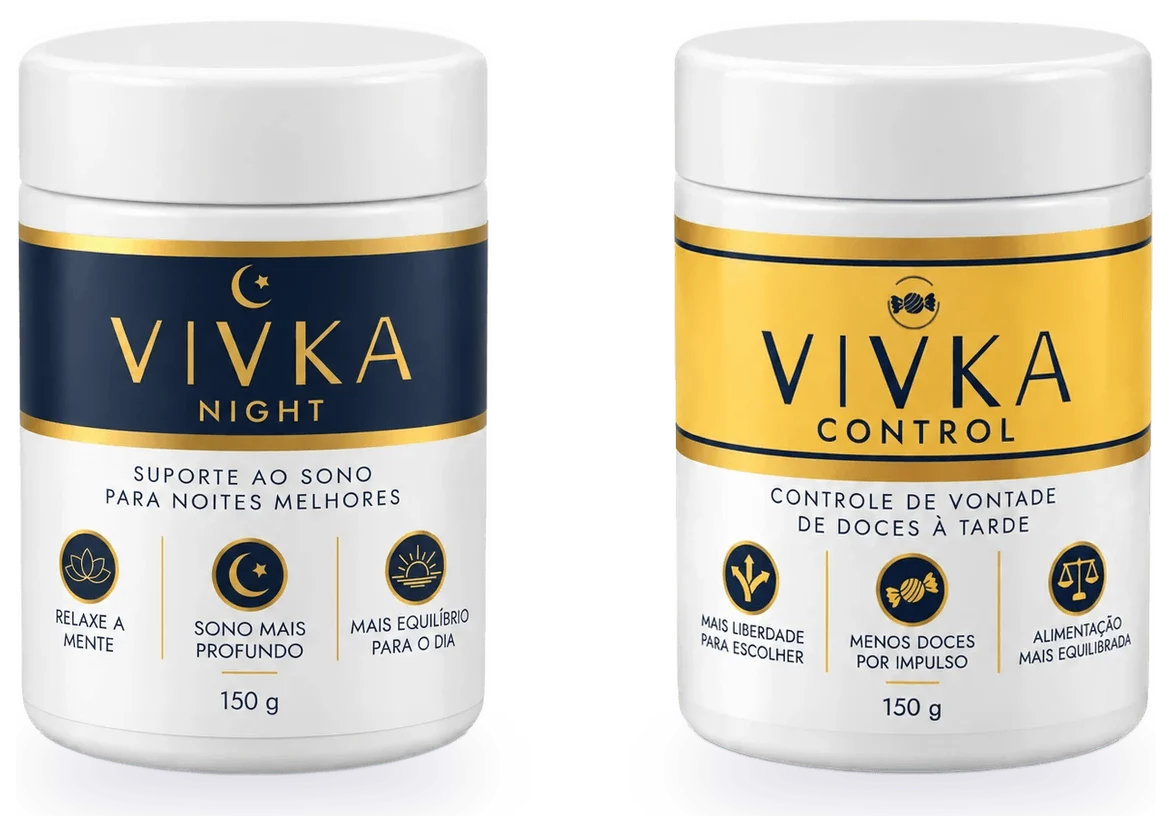
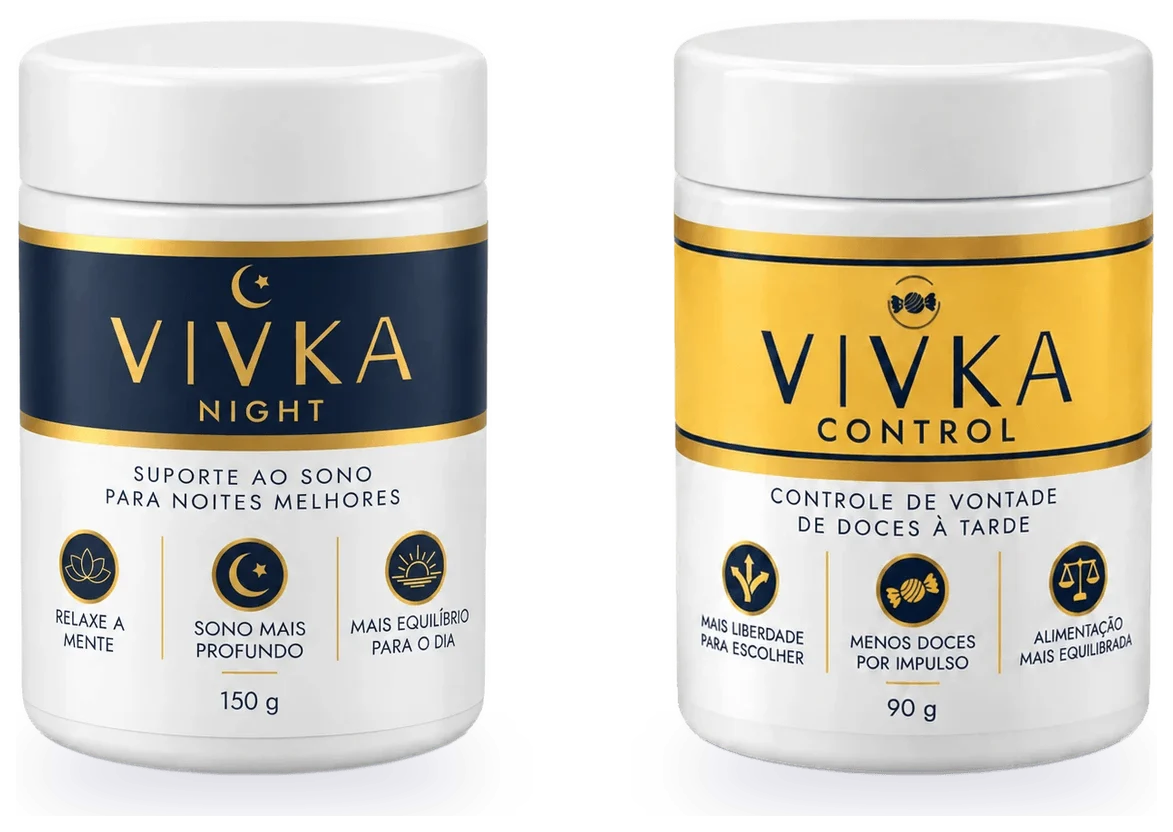
Control: pote de 90 g, posologia em scoop e composição do rótulo novo
- Mockups do Control refeitos a partir do pote novo (card, 1/3/5 potes e
  kits 1/2/4 pares), mesmos tamanhos e disposição
- "150 g" → "90 g" no pote Control das fotos (hero, foto do kit e banner da
  loja), sem alterar o resto das imagens; og-image regerada
- Textos: 90 g, "Ingerir 1 scoop diluído em 200 ml...", taumatina e aroma de
  chocolate na composição

diff --git a/src/pages/home.tsx b/src/pages/home.tsx
@@ -30,11 +30,11 @@ const FAQS = [
   },
   {
     q: "Como devo usar?",
-    a: "Control: 5 g (1 dose) diluídos em 200 ml de água, logo após o almoço, ou conforme orientação profissional. Night: 5 g (1 dose) diluídos em 200 ml de água, à noite, 30 minutos antes de deitar. Não exceda a recomendação diária indicada na embalagem.",
+    a: "Control: 1 scoop diluído em 200 ml de água, logo após o almoço, ou conforme orientação profissional. Night: 5 g (1 dose) diluídos em 200 ml de água, à noite, 30 minutos antes de deitar. Não exceda a recomendação diária indicada na embalagem.",
   },
   {
     q: "Quantas doses tem cada pote?",
-    a: "Os dois vêm em potes de 150 g e rendem 30 doses de 5 g cada: um mês de uso diário.",
+    a: "O Control vem em pote de 90 g (1 scoop por dose) e o Night em pote de 150 g (30 doses de 5 g).",
   },
   {
     q: "Qual é o sabor?",
@@ -195,7 +195,7 @@ function BenefitStrip() {
   const items = [
     { icon: CupSoda, label: "Em pó, diluído na água" },
     { icon: ListChecks, label: "Fórmula declarada" },
-    { icon: Package, label: "150 g por pote" },
+    { icon: Package, label: "Potes de 90 g e 150 g" },
     { icon: SunMoon, label: "Um para cada momento" },
     { icon: Citrus, label: "Cacau e laranja" },
     { icon: ShieldCheck, label: "7 dias de garantia" },
@@ -374,7 +374,7 @@ function DiaENoite() {
               como um par, e juntos saem mais em conta: nos kits de 2 e 4 pares a economia é ainda maior.
             </p>
             <ul className="mt-6 space-y-2">
-              {["1 Vivka Control (150 g · 30 doses)", "1 Vivka Night (150 g · 30 doses)", "Da tarde à noite, em um só cuidado"].map((t) => (
+              {["1 Vivka Control (90 g)", "1 Vivka Night (150 g · 30 doses)", "Da tarde à noite, em um só cuidado"].map((t) => (
                 <li key={t} className="flex items-center gap-3 text-base text-vk-tinta">
                   <span className="inline-flex h-6 w-6 items-center justify-center rounded-full bg-vk-azul text-vk-dourado">
                     <Check className="h-4 w-4" aria-hidden="true" />
@@ -404,7 +404,7 @@ function Momentos() {
       icon: Candy,
       tag: "Tarde · Control",
       titulo: "Quando o doce chama",
-      desc: "Logo após o almoço, 5 g em 200 ml de água. Cromo picolinato, L-triptofano, Gymnema e Saffron, numa base de cacau, para o momento em que a vontade de doce costuma aparecer.",
+      desc: "Logo após o almoço, 1 scoop em 200 ml de água. Cromo picolinato, L-triptofano, Gymnema e Saffron, numa base de cacau, para o momento em que a vontade de doce costuma aparecer.",
       cor: "bg-vk-amarelo text-vk-azul",
     },
     {

diff --git a/src/data/produtos.ts b/src/data/produtos.ts
@@ -94,11 +94,11 @@ export const PRODUTOS: Record<ProdutoId, Produto> = {
     frase: "Quando o doce chama, você escolhe.",
     descricao:
       "Cromo picolinato, L-triptofano, Gymnema e Saffron numa base de cacau: um pó para diluir em água logo após o almoço, pensado para o momento em que a vontade de doce costuma aparecer.",
-    apresentacao: "150 g em pó",
-    doses: "30 doses de 5 g",
+    apresentacao: "90 g em pó",
+    doses: "1 scoop por dose",
     sabor: "Base de cacau",
     quando: "Logo após o almoço",
-    modoUso: "Ingerir 5 g (1 dose) diluídos em 200 ml de água, logo após o almoço, ou conforme orientação profissional.",
+    modoUso: "Ingerir 1 scoop diluído em 200 ml de água, logo após o almoço, ou conforme orientação profissional.",
     beneficios: ["Mais liberdade para escolher", "Menos doces por impulso", "Alimentação mais equilibrada"],
     ativosDestaque: [
       { nome: "Cromo picolinato", beneficio: "Mineral que participa do metabolismo dos carboidratos e da glicose." },
@@ -106,12 +106,14 @@ export const PRODUTOS: Record<ProdutoId, Produto> = {
       { nome: "Gymnema", beneficio: "Planta de uso tradicional, associada à percepção do sabor doce." },
       { nome: "Saffron", beneficio: "Extrato do estigma do Crocus sativus, o açafrão-verdadeiro." },
     ],
-    // Composição por dose conforme o rótulo (2026-10-15).
+    // Composição por dose conforme o rótulo (2026-10-22, pote de 90 g).
     composicao: [
       { nome: "Cromo picolinato", qtd: "150 mcg" },
       { nome: "L-Triptofano", qtd: "100 mg" },
       { nome: "Gymnema", qtd: "100 mg" },
       { nome: "Saffron", qtd: "30 mg" },
+      { nome: "Taumatina", qtd: "q.s." },
+      { nome: "Aroma de chocolate", qtd: "q.s." },
       { nome: "Cacau", qtd: "q.s.p. 1 dose" },
     ],
     precos: [
@@ -146,7 +148,7 @@ export const PRODUTOS: Record<ProdutoId, Produto> = {
     ],
     image: "/products/control-card.webp",
     imageCutout: "/products/control-cutout.webp",
-    imageAlt: "Vivka Control — pote de 150 g com rótulo amarelo e azul",
+    imageAlt: "Vivka Control — pote de 90 g com rótulo amarelo e azul",
   },
   night: {
     id: "night",

diff --git a/src/pages/loja.tsx b/src/pages/loja.tsx
@@ -86,7 +86,7 @@ const DIFERENCIAIS = [
 const FAQS = [
   {
     q: "Como devo usar os produtos?",
-    a: "Control: 5 g (1 dose) diluídos em 200 ml de água, logo após o almoço, ou conforme orientação profissional. Night: 5 g (1 dose) diluídos em 200 ml de água, à noite, 30 minutos antes de deitar. Não exceda a recomendação diária indicada na embalagem.",
+    a: "Control: 1 scoop diluído em 200 ml de água, logo após o almoço, ou conforme orientação profissional. Night: 5 g (1 dose) diluídos em 200 ml de água, à noite, 30 minutos antes de deitar. Não exceda a recomendação diária indicada na embalagem.",
   },
   {
     q: "Qual a diferença entre o Control e o Night?",
@@ -98,7 +98,7 @@ const FAQS = [
   },
   {
     q: "Quantas doses tem cada pote?",
-    a: "Os dois vêm em potes de 150 g e rendem 30 doses de 5 g cada: um mês de uso diário.",
+    a: "O Control vem em pote de 90 g (1 scoop por dose) e o Night em pote de 150 g (30 doses de 5 g).",
   },
   {
     q: "Como funciona a compra?",
@@ -384,7 +384,7 @@ function Comprar() {
             nome="Dia + Noite"
             sub="Control + Night"
             imagePrefix="kit"
-            meta="1 Control 150 g + 1 Night 150 g por par"
+            meta="1 Control 90 g + 1 Night 150 g por par"
             precos={KIT_PRECOS}
             unidade={["par", "pares"]}
             baseUnit={parseBRL(PRODUTOS.control.precos[0].total) + parseBRL(PRODUTOS.night.precos[0].total)}
